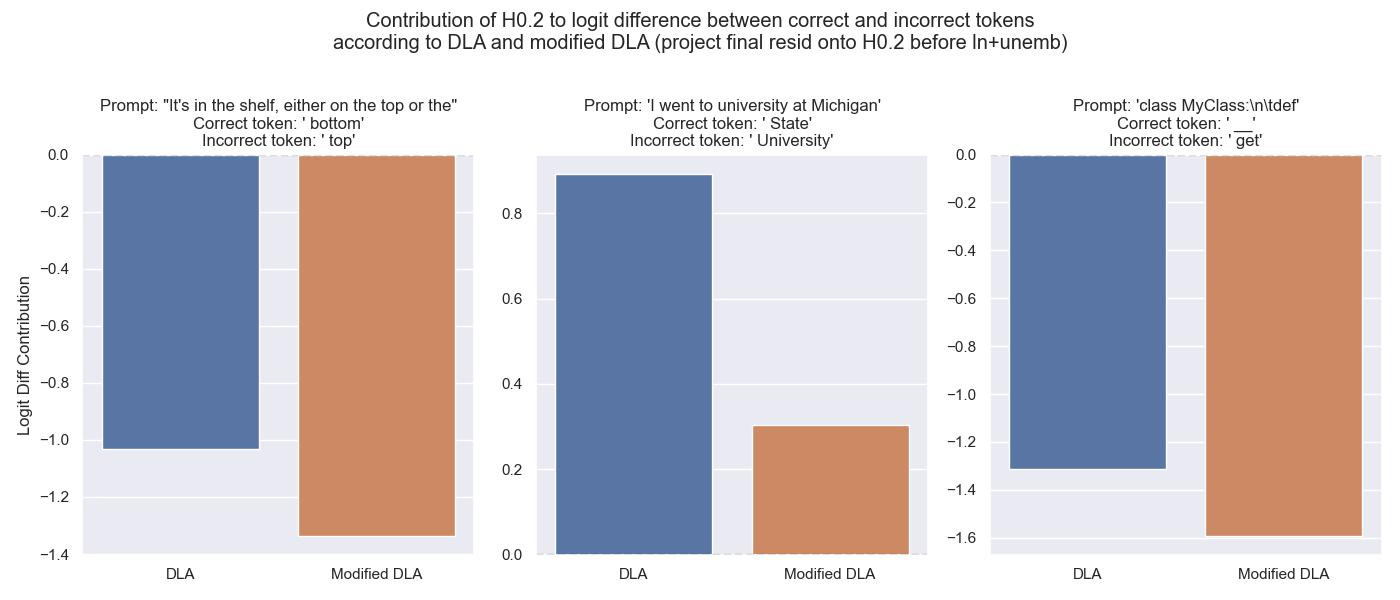
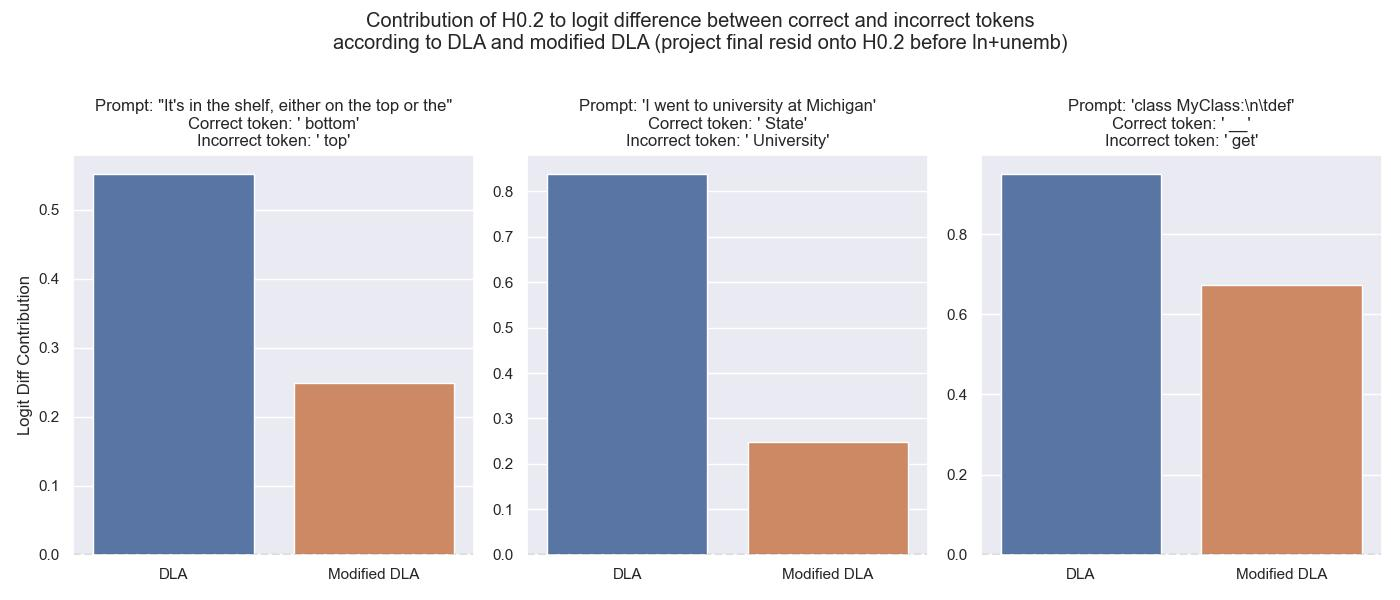
fig9new exclude unemb bias

diff --git a/jamesd_utils.py b/jamesd_utils.py
@@ -137,8 +137,9 @@ def get_logit_diff_function(
     )
 
     logit_diff_bias = 0
-    if hasattr(model, "b_U"):
-        logit_diff_bias = model.b_U[correct_token_id] - model.b_U[incorrect_token_id]
+    # comment out the unemb bias
+    # if hasattr(model, "b_U"):
+    #     logit_diff_bias = model.b_U[correct_token_id] - model.b_U[incorrect_token_id]
 
     def calc_logit_diff(
         resid_final: Float[Tensor, "... d_model"],
